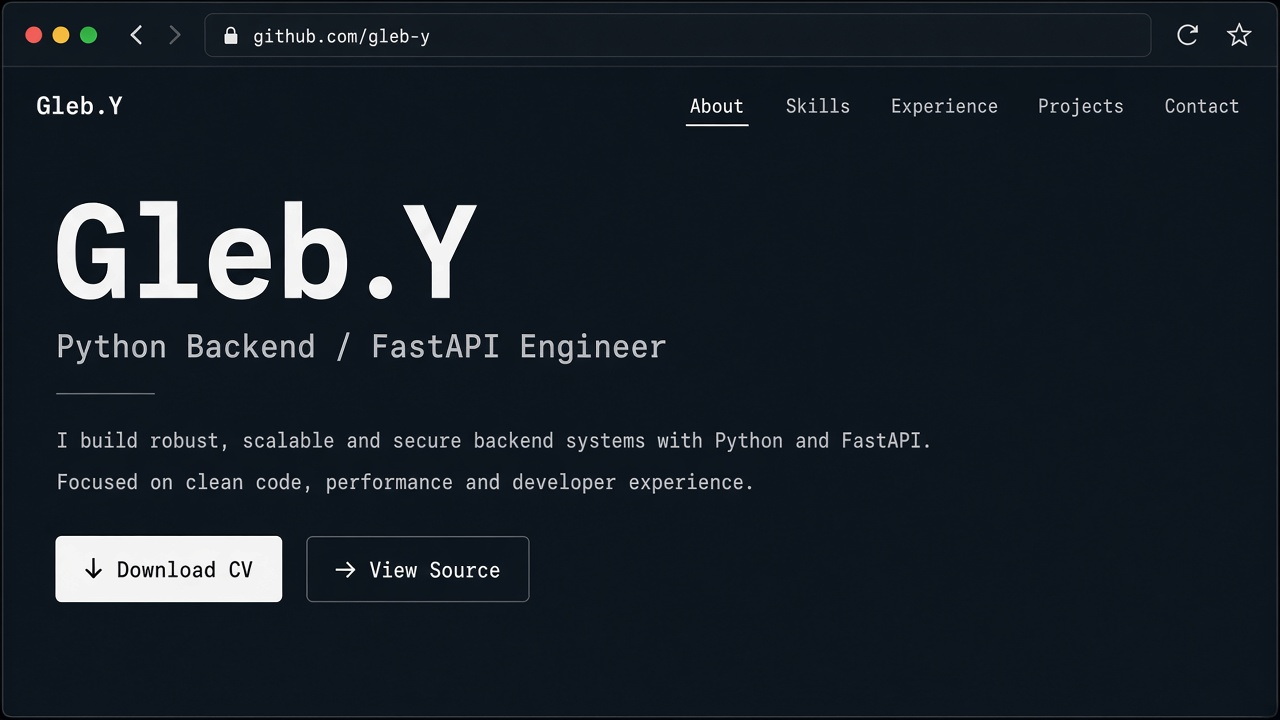
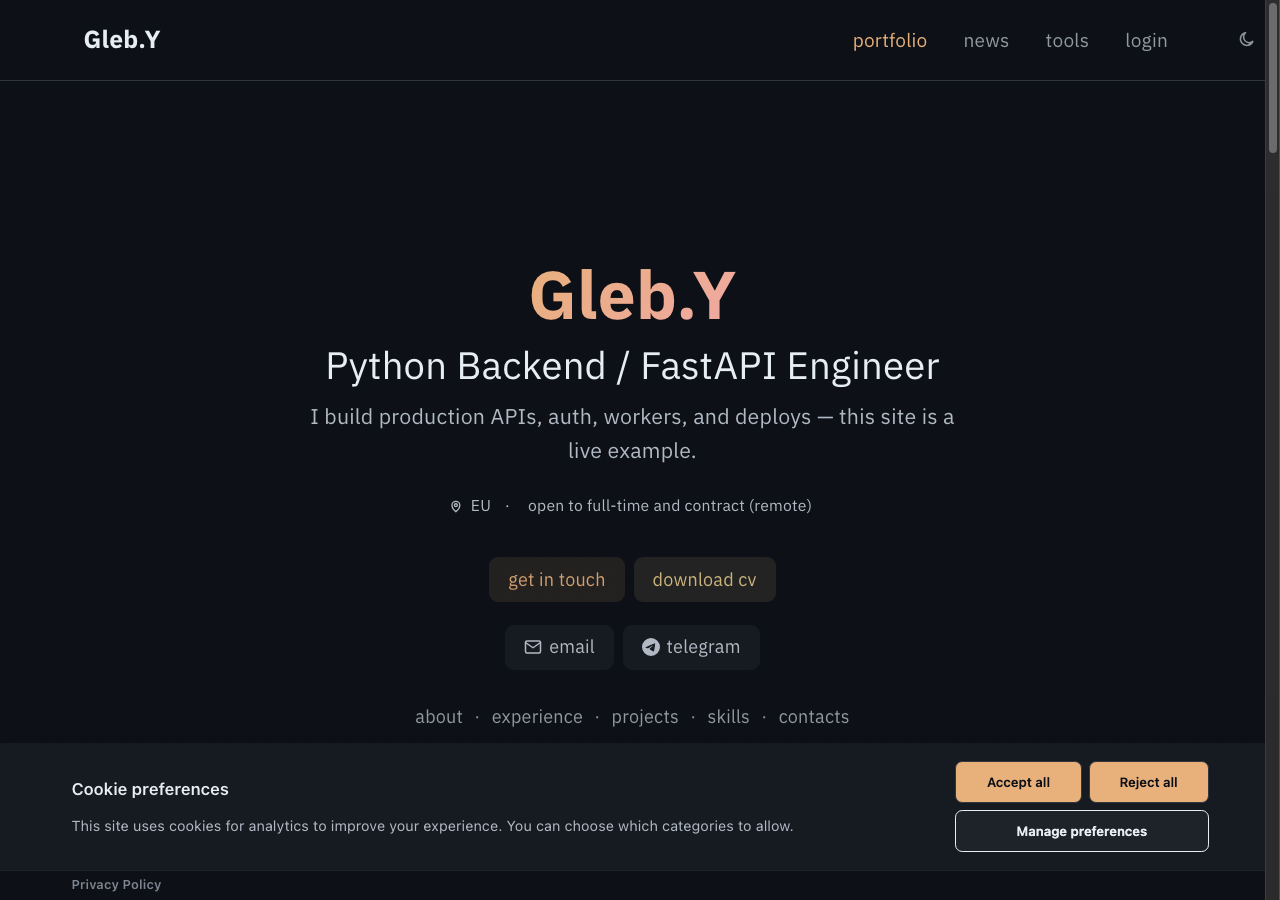
fix(client): tighten portfolio hero for faster hire skim (#660)
Keep brand, role, tagline, and CTAs above the fold; move bio to about,
surface email/telegram chips, and replace auto-print CV fallback with an
explicit action. Refresh README screenshots and drop unused NASA bg.

diff --git a/client/src/components/resume/HeroBlock.vue b/client/src/components/resume/HeroBlock.vue
@@ -1,31 +1,41 @@
 <script setup lang="ts">
-import { ref } from "vue";
+import { computed, ref } from "vue";
 
+import ContactLinkChip from "@/components/contact/ContactLinkChip.vue";
 import LocationIcon from "@/components/icons/LocationIcon.vue";
 import { api } from "@/composables/useApi";
 import { useNotify } from "@/composables/useNotify";
+import type { ContactLink } from "@/constants/contactMeta";
 import { PORTFOLIO_SECTION_LINKS } from "@/constants/portfolioSections";
 import { getApiErrorMessageFromBlob } from "@/types/api";
 
 const CV_FILENAME = "gleb.y.cv.pdf";
+/** Fastest hire channels in the hero — full set stays in #contacts. */
+const HERO_CONTACT_IDS = new Set(["email", "telegram"]);
 
-defineProps<{
+const props = defineProps<{
   name: string;
   title: string;
   tagline?: string;
   location?: string;
   availability?: string;
-  bio: string;
+  contactLinks: ContactLink[];
 }>();
 
 const emit = defineEmits<{ inquire: [] }>();
 
 const isDownloadingCv = ref(false);
+const showPrintFallback = ref(false);
 const { toast } = useNotify();
+
+const heroContactLinks = computed(() =>
+  props.contactLinks.filter((link) => HERO_CONTACT_IDS.has(link.id)),
+);
 
 async function downloadCv(): Promise<void> {
   if (isDownloadingCv.value) return;
   isDownloadingCv.value = true;
+  showPrintFallback.value = false;
   try {
     const response = await api.get<Blob>("/resume/pdf", {
       responseType: "blob",
@@ -48,12 +58,16 @@ async function downloadCv(): Promise<void> {
     URL.revokeObjectURL(url);
   } catch (err) {
     const message = await getApiErrorMessageFromBlob(err, "Failed to download CV");
-    // ponytail: no static PDF asset — print stylesheet is the offline fallback
-    toast(`${message}. Opening print dialog as a fallback.`, "error");
-    window.print();
+    // ponytail: no static PDF — offer print only when the user chooses it
+    toast(message, "error");
+    showPrintFallback.value = true;
   } finally {
     isDownloadingCv.value = false;
   }
+}
+
+function printPage(): void {
+  window.print();
 }
 </script>
 
@@ -62,8 +76,8 @@ async function downloadCv(): Promise<void> {
     <h1 class="text-4xl sm:text-5xl md:text-6xl font-bold mb-3 text-balance">
       <span class="accent-gradient">{{ name }}</span>
     </h1>
-    <p class="text-2xl md:text-3xl text-surface-sage mb-2">{{ title }}</p>
-    <p v-if="tagline" class="text-lg text-accent-blue mb-3 text-pretty max-w-2xl mx-auto">
+    <p class="text-2xl md:text-3xl text-surface-light mb-2">{{ title }}</p>
+    <p v-if="tagline" class="text-lg text-surface-sage mb-3 text-pretty max-w-2xl mx-auto">
       {{ tagline }}
     </p>
     <p
@@ -85,9 +99,6 @@ async function downloadCv(): Promise<void> {
         {{ availability }}
       </a>
     </p>
-    <p class="text-lg md:text-xl max-w-2xl mx-auto text-surface-sage leading-relaxed text-pretty">
-      {{ bio }}
-    </p>
 
     <div class="mt-6 flex flex-col sm:flex-row flex-wrap items-center justify-center gap-2 print:hidden">
       <button type="button" class="cta-primary" @click="emit('inquire')">get in touch</button>
@@ -101,9 +112,51 @@ async function downloadCv(): Promise<void> {
       </button>
     </div>
 
-    <!-- Jump links: middot list, no eyebrows (label lives in aria-label). -->
-    <div class="portfolio-link-rail mt-5 flex flex-col gap-1 print:hidden">
-      <nav aria-label="On this page">
+    <p
+      v-if="showPrintFallback"
+      class="mt-3 text-meta print:hidden"
+      role="status"
+    >
+      PDF unavailable.
+      <button
+        type="button"
+        class="ml-1 underline underline-offset-4 text-accent-blue hover:text-surface-light focus-visible:outline-none focus-visible:ring-2 focus-visible:ring-accent-blue/50 rounded"
+        @click="printPage"
+      >
+        print page instead
+      </button>
+    </p>
+
+    <div
+      v-if="heroContactLinks.length"
+      class="mt-5 flex flex-wrap items-center justify-center gap-2 print:hidden"
+    >
+      <ContactLinkChip v-for="link in heroContactLinks" :key="link.id" :link="link" />
+    </div>
+
+    <!-- Mobile: disclosure. md+: light middot rail (sticky section nav covers scroll). -->
+    <div class="portfolio-link-rail mt-5 print:hidden">
+      <details class="md:hidden group mx-auto max-w-xs text-left">
+        <summary
+          class="nav-link flex min-h-11 cursor-pointer list-none items-center justify-center rounded-lg px-3 focus-visible:outline-none focus-visible:ring-2 focus-visible:ring-accent-blue/50 [&::-webkit-details-marker]:hidden"
+        >
+          jump to…
+        </summary>
+        <nav aria-label="On this page" class="mt-2">
+          <ul class="m-0 flex list-none flex-col items-stretch gap-1 p-0">
+            <li v-for="link in PORTFOLIO_SECTION_LINKS" :key="link.href">
+              <a
+                :href="link.href"
+                class="nav-link flex min-h-11 items-center justify-center rounded-lg px-3"
+              >
+                {{ link.label }}
+              </a>
+            </li>
+          </ul>
+        </nav>
+      </details>
+
+      <nav aria-label="On this page" class="hidden md:block">
         <ul class="m-0 flex list-none flex-wrap items-center justify-center gap-y-1 p-0">
           <li
             v-for="(link, i) in PORTFOLIO_SECTION_LINKS"

diff --git a/client/src/pages/PortfolioPage.vue b/client/src/pages/PortfolioPage.vue
@@ -13,6 +13,7 @@ import EmptyState from "@/components/ui/EmptyState.vue";
 import ErrorState from "@/components/ui/ErrorState.vue";
 import { useCachedApi } from "@/composables/useCachedApi";
 import { buildContactLinks } from "@/constants/contactMeta";
+import { PORTFOLIO_SECTION_LINKS } from "@/constants/portfolioSections";
 import { RESUME_FALLBACK } from "@/constants/resumeFallback";
 import type { DonationsConfig, PublicGitHubRepo, ResumeData } from "@/types";
 import { consumeQueryParams } from "@/utils/consumeQueryParams";
@@ -47,9 +48,13 @@ const donationsFetched = ref(false);
 const donationsStarted = ref(false);
 const contactModal = ref<"inquiry" | null>(null);
 const supportSectionRef = ref<HTMLElement | null>(null);
+const heroSentinelRef = ref<HTMLElement | null>(null);
+const showSectionNav = ref(false);
+const sectionNavTop = ref(72);
 /** Filled via GET /github/repos when /resume returned a cold-cache empty strip. */
 const githubReposExtra = ref<PublicGitHubRepo[] | null>(null);
 let supportObserver: IntersectionObserver | null = null;
+let heroObserver: IntersectionObserver | null = null;
 let cancelGithubIdle: (() => void) | null = null;
 
 const resume = computed(() => resumeApi.value ?? RESUME_FALLBACK);
@@ -116,6 +121,28 @@ async function loadDonations(): Promise<void> {
   }
 }
 
+function syncSectionNavTop(): void {
+  const header = document.getElementById("site-header");
+  sectionNavTop.value = header?.offsetHeight ?? 72;
+}
+
+function observeHeroSentinel(): void {
+  if (heroObserver || !heroSentinelRef.value) {
+    return;
+  }
+  syncSectionNavTop();
+  heroObserver = new IntersectionObserver(
+    (entries) => {
+      const entry = entries[0];
+      if (!entry) return;
+      // Show sticky section nav once the hero leaves the top of the viewport.
+      showSectionNav.value = !entry.isIntersecting;
+    },
+    { rootMargin: `-${sectionNavTop.value}px 0px 0px 0px`, threshold: 0 },
+  );
+  heroObserver.observe(heroSentinelRef.value);
+}
+
 function observeSupportSection(): void {
   if (supportObserver || !supportSectionRef.value) {
     return;
@@ -152,6 +179,7 @@ onMounted(() => {
     });
   });
   void nextTick(async () => {
+    observeHeroSentinel();
     if (String(route.query.donated ?? "") === "1") {
       await consumeDonationThanks();
       return;
@@ -165,6 +193,8 @@ onUnmounted(() => {
   cancelGithubIdle = null;
   supportObserver?.disconnect();
   supportObserver = null;
+  heroObserver?.disconnect();
+  heroObserver = null;
 });
 </script>
 
@@ -180,19 +210,53 @@ onUnmounted(() => {
       />
     </div>
 
+    <div
+      class="pointer-events-none fixed inset-x-0 z-30 flex justify-center px-4 transition-opacity duration-200 print:hidden"
+      :class="showSectionNav ? 'opacity-100' : 'opacity-0'"
+      :style="{ top: `${sectionNavTop}px` }"
+    >
+      <nav
+        class="pointer-events-auto max-w-5xl rounded-b-lg border border-t-0 border-surface-border/60 bg-surface-dark/90 px-3 py-1 backdrop-blur-md"
+        :class="showSectionNav ? '' : 'invisible'"
+        aria-label="On this page"
+        :inert="!showSectionNav"
+      >
+        <ul class="m-0 flex list-none flex-wrap items-center justify-center gap-y-0 p-0">
+          <li
+            v-for="(link, i) in PORTFOLIO_SECTION_LINKS"
+            :key="link.href"
+            class="inline-flex items-center"
+          >
+            <span v-if="i > 0" class="px-1.5 text-surface-muted" aria-hidden="true">·</span>
+            <a
+              :href="link.href"
+              class="nav-link inline-flex min-h-11 items-center px-1 rounded-lg text-sm"
+            >
+              {{ link.label }}
+            </a>
+          </li>
+        </ul>
+      </nav>
+    </div>
+
     <SectionWrapper width="full">
-      <HeroBlock
-        :name="resume.name"
-        :title="resume.title"
-        :tagline="resume.tagline"
-        :location="resume.location"
-        :availability="resume.availability"
-        :bio="resume.bio"
-        @inquire="contactModal = 'inquiry'"
-      />
+      <div ref="heroSentinelRef">
+        <HeroBlock
+          :name="resume.name"
+          :title="resume.title"
+          :tagline="resume.tagline"
+          :location="resume.location"
+          :availability="resume.availability"
+          :contact-links="contactLinks"
+          @inquire="contactModal = 'inquiry'"
+        />
+      </div>
     </SectionWrapper>
 
     <SectionWrapper id="about" title="about" width="full" dark alternate>
+      <p class="text-body mb-4 max-w-3xl text-pretty">
+        {{ resume.bio }}
+      </p>
       <p v-if="resume.hiring_note" class="text-body mb-6 max-w-3xl">
         {{ resume.hiring_note }}
       </p>

diff --git a/client/src/components/resume/HeroBlock.test.ts b/client/src/components/resume/HeroBlock.test.ts
@@ -1,0 +1,78 @@
+import { mount, flushPromises } from "@vue/test-utils";
+import { beforeEach, describe, expect, it, vi } from "vitest";
+
+import HeroBlock from "@/components/resume/HeroBlock.vue";
+import type { ContactLink } from "@/constants/contactMeta";
+
+const toast = vi.fn();
+const apiGet = vi.fn();
+
+vi.mock("@/composables/useNotify", () => ({
+  useNotify: () => ({ toast }),
+}));
+
+vi.mock("@/composables/useApi", () => ({
+  api: {
+    get: (...args: unknown[]) => apiGet(...args),
+  },
+}));
+
+const contactLinks: ContactLink[] = [
+  { id: "email", label: "email", href: "mailto:test@example.com" },
+  { id: "telegram", label: "telegram", href: "https://t.me/example" },
+  { id: "github", label: "github", href: "https://github.com/example" },
+];
+
+describe("HeroBlock", () => {
+  beforeEach(() => {
+    toast.mockReset();
+    apiGet.mockReset();
+  });
+
+  it("keeps bio out of the hero and shows email/telegram chips only", () => {
+    const wrapper = mount(HeroBlock, {
+      props: {
+        name: "Gleb.Y",
+        title: "Python Backend / FastAPI Engineer",
+        tagline: "I build production APIs",
+        contactLinks,
+      },
+    });
+
+    expect(wrapper.text()).toContain("I build production APIs");
+    expect(wrapper.text()).not.toContain("Backend-first");
+    expect(wrapper.text()).toContain("email");
+    expect(wrapper.text()).toContain("telegram");
+    expect(wrapper.text()).not.toContain("github");
+  });
+
+  it("offers print fallback instead of auto-printing when PDF fails", async () => {
+    window.print = window.print ?? (() => {});
+    const printSpy = vi.spyOn(window, "print").mockImplementation(() => {});
+    apiGet.mockRejectedValue(new Error("network"));
+
+    const wrapper = mount(HeroBlock, {
+      props: {
+        name: "Gleb.Y",
+        title: "Engineer",
+        contactLinks,
+      },
+    });
+
+    await wrapper.get("button.cta-secondary").trigger("click");
+    await flushPromises();
+
+    expect(printSpy).not.toHaveBeenCalled();
+    expect(toast).toHaveBeenCalled();
+    expect(wrapper.text()).toContain("print page instead");
+
+    const printBtn = wrapper
+      .findAll("button")
+      .find((b) => b.text().includes("print page instead"));
+    expect(printBtn).toBeTruthy();
+    await printBtn!.trigger("click");
+    expect(printSpy).toHaveBeenCalledTimes(1);
+
+    printSpy.mockRestore();
+  });
+});
